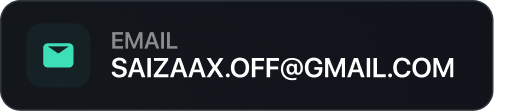
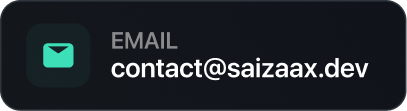
fix: updated bio

diff --git a/README.md b/README.md
@@ -1,16 +1,16 @@
-<a href="https://saizaax.xyz/">
+<a href="https://saizaax.dev/">
   <img src="./assets/title.png" alt="saizaax.dev">
 </a>
 
 ### About
 
-- 👋 Hi, I’m [@saizaax](https://saizaax.xyz/), a passionate dev bringing you programming and design from the future
+- 👋 Hi, I’m [@saizaax](https://saizaax.dev/), a passionate dev bringing you programming and design from the future
 
-- 🎓 I'm currently studying Computer Science at the RTU MIREA University
+- 🎓 I'm currently studying Computer Science in a magistracy at the RTU MIREA University
 
 - 🌱 I'm on track for learning more about Systems Design and Cloud Architecture
 
-- 📫 You can shoot me a PM at [saizaax.off@gmail.com](mailto:saizaax.off@gmail.com) or [telegram • @saizaax](https://t.me/saizaax)
+- 📫 You can shoot me a PM at [contact@saizaax.dev](mailto:contact@saizaax.dev) or [telegram • @saizaax](https://t.me/saizaax)
 
 #
 
@@ -23,7 +23,7 @@
 ### Links
 
 <p>
-  <a href="https://saizaax.xyz/">
+  <a href="https://saizaax.dev/">
     <img src="./assets/link-personal.png" alt="Personal Website" height="55">
   </a>
   <a href="https://behance.net/saizaax">
@@ -42,8 +42,8 @@
   <a href="https://github.com/saizaax/yet-another-schedule-app">
     <img src="./assets/projects-1.png" alt="Schedule App" height="225">
   </a>
-  <a href="https://github.com/saizaax/next-pizza">
-    <img src="./assets/projects-2.png" alt="Next Pizza" height="225">
+  <a href="https://github.com/saizaax/doc-storage">
+    <img src="./assets/projects-2.png" alt="DocStorage" height="225">
   </a>
   <a href="https://github.com/saizaax/uncos">
     <img src="./assets/projects-3.png" alt="Uncos" height="225">
@@ -55,7 +55,7 @@
 ### Contacts
 
 <p>
-  <a href="mailto:saizaax.off@gmail.com">
+  <a href="mailto:contact@saizaax.dev">
     <img src="./assets/contact-mail.png" alt="Email" height="55">
   </a>
 </p>
